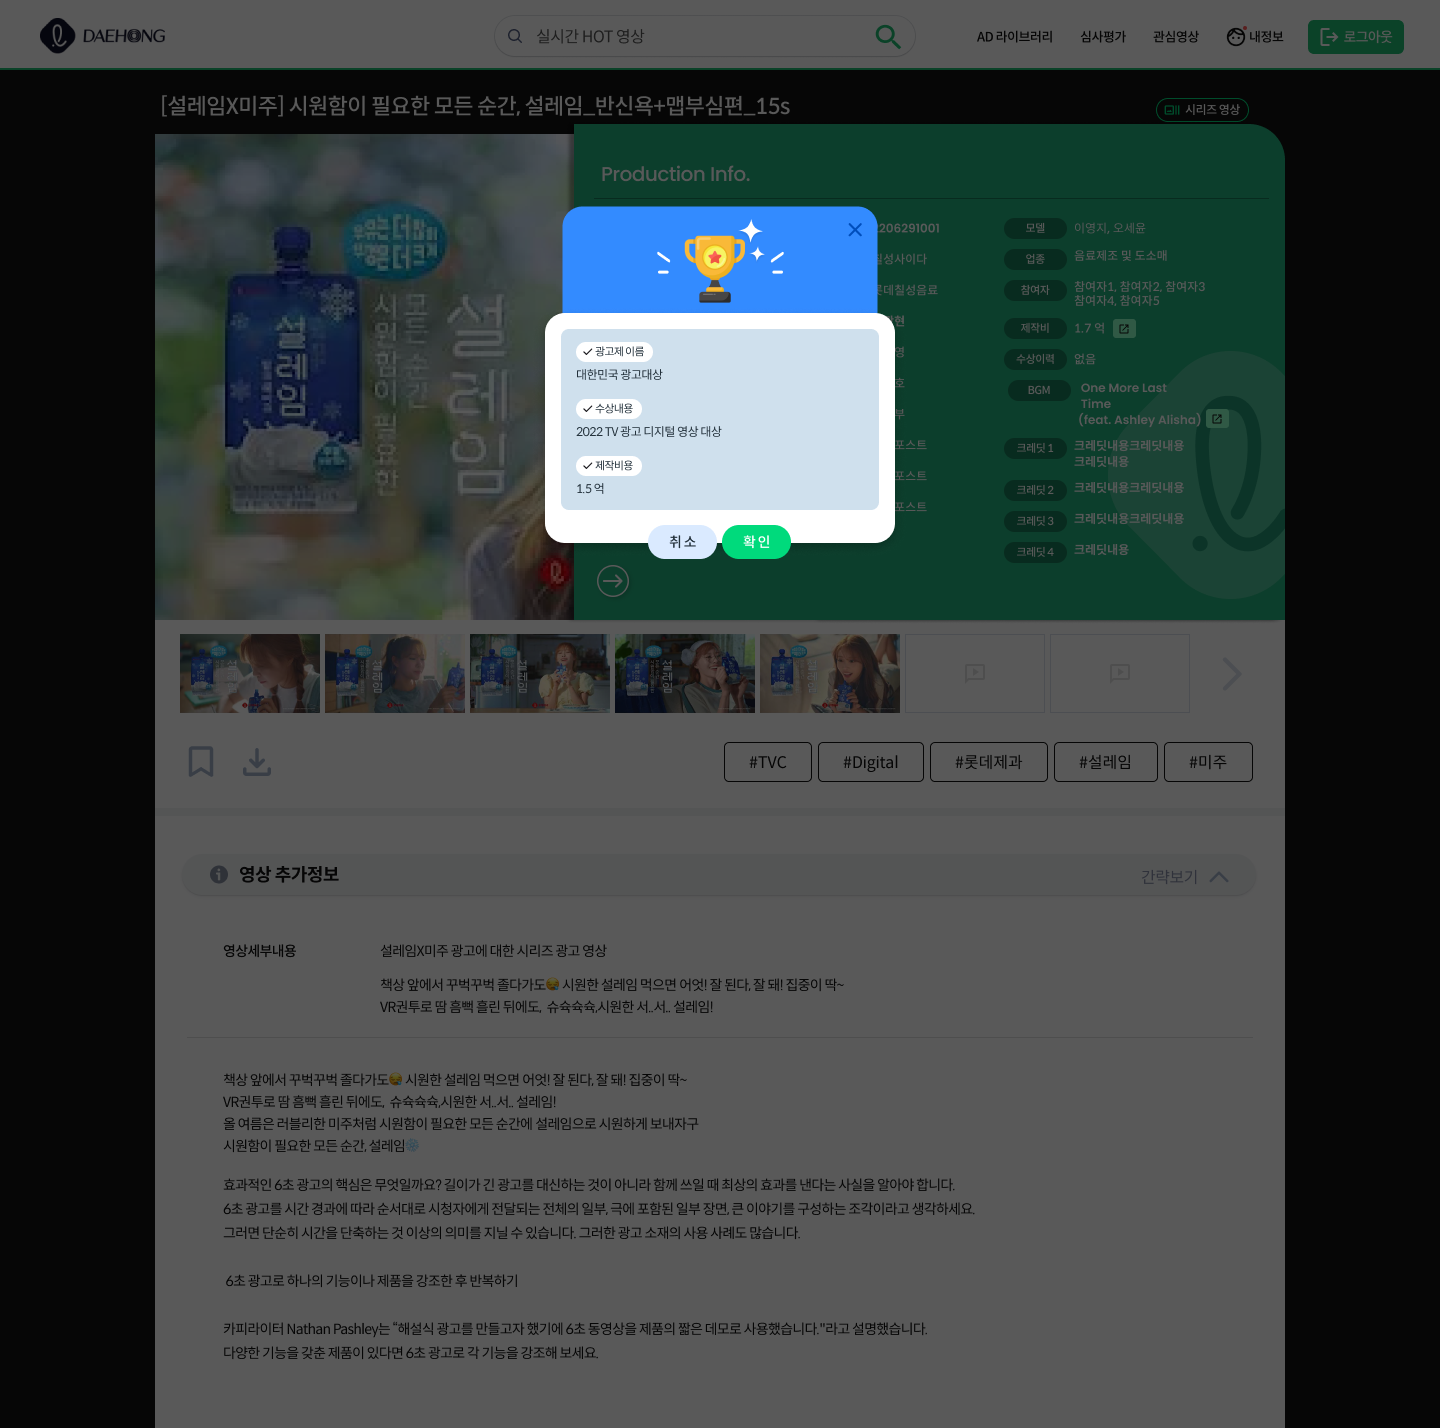
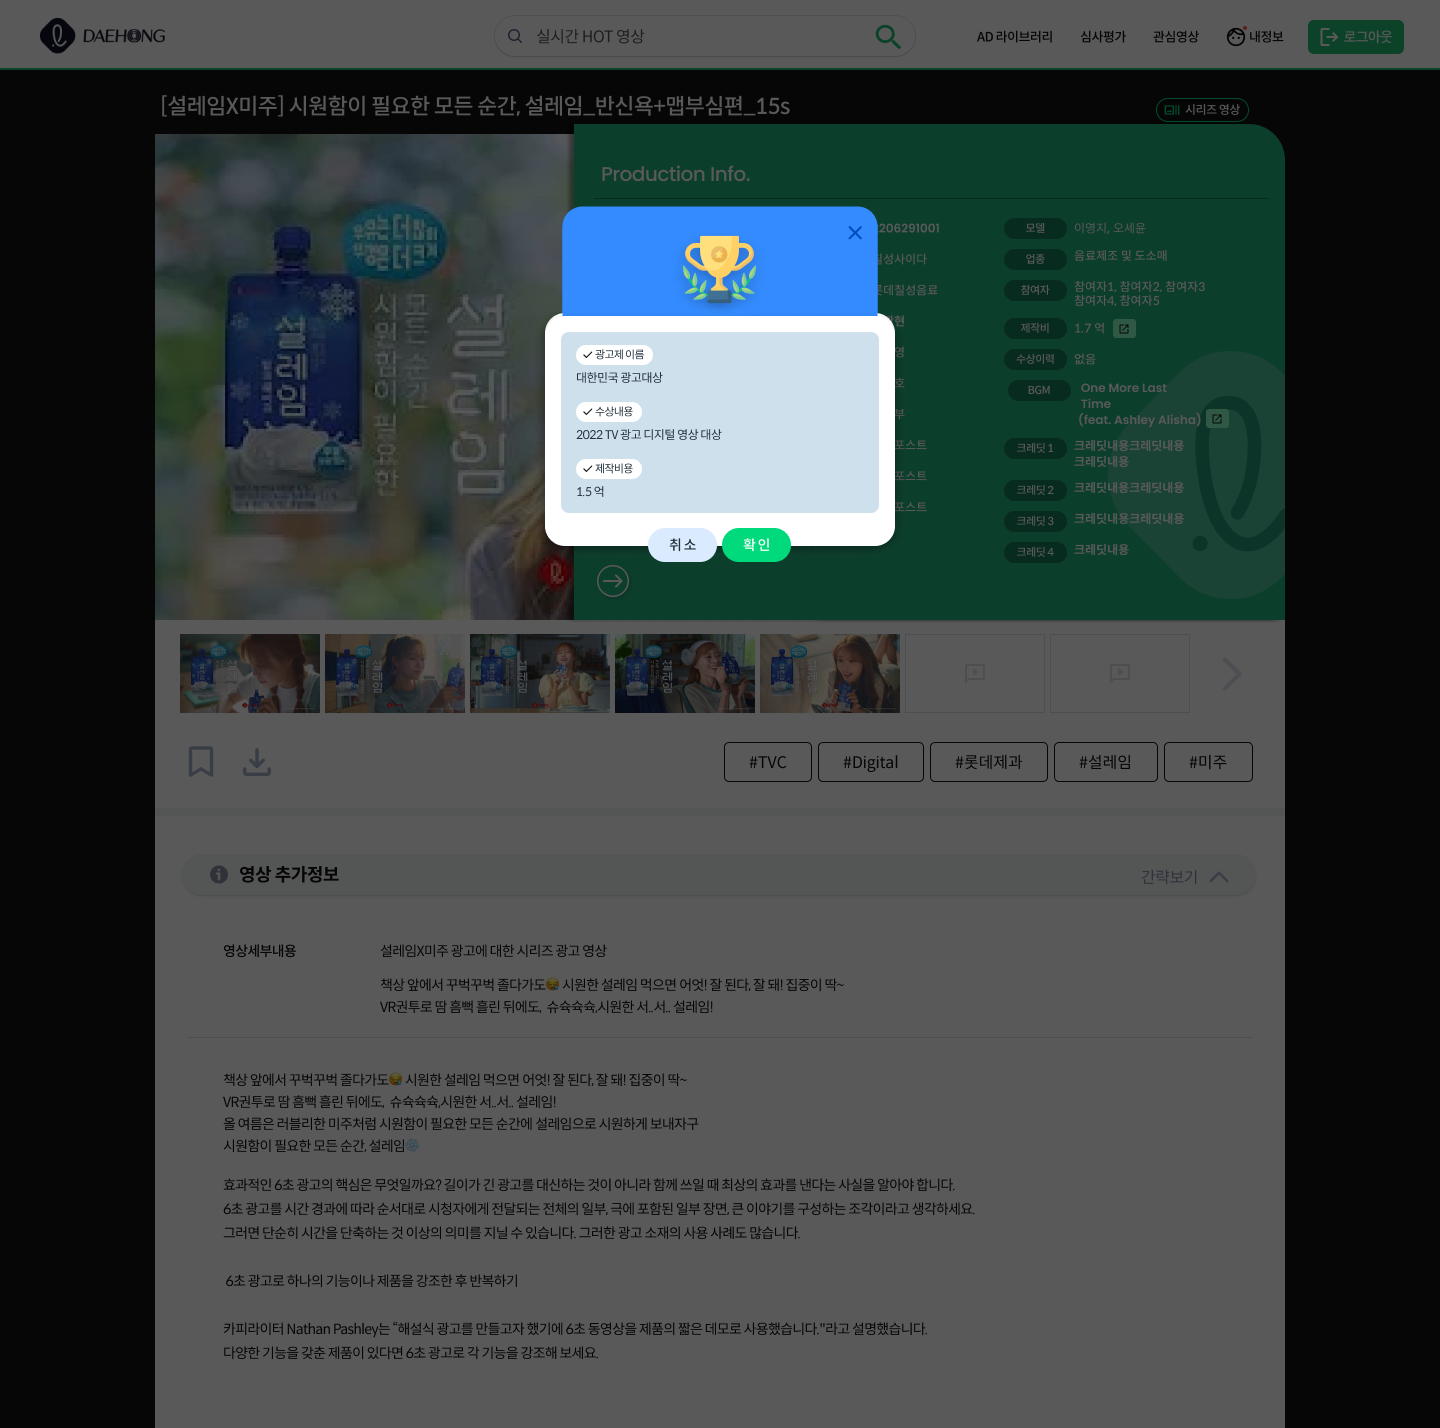
images commit

Changed region(s): [[0.4062, 0.1541, 0.5938, 0.3697], [0.4375, 0.3389, 0.5625, 0.4006]]

diff --git a/prototype/04_1.html b/prototype/04_1.html
@@ -17,7 +17,7 @@
   </style>
 </head>
 <body>
-  <img src="images/prize.gif" class="award" alt="">
+  <!-- <img src="images/prize.gif" class="award" alt=""> -->
   <a href="04_2.html" ><img src="images/Popup_1.png" alt=""></a>
 </body>
 </html>

diff --git a/prototype/04_2.html b/prototype/04_2.html
@@ -17,7 +17,7 @@
   </style>
 </head>
 <body>
-  <img src="images/prize.gif" class="award" alt="">
+  <!-- <img src="images/prize.gif" class="award" alt=""> -->
   <a href="04_3.html" ><img src="images/Popup_2.png" alt=""></a>
 </body>
 </html>

diff --git a/prototype/04_3.html b/prototype/04_3.html
@@ -17,7 +17,7 @@
   </style>
 </head>
 <body>
-  <img src="images/prize.gif" class="award" alt="">
+  <!-- <img src="images/prize.gif" class="award" alt=""> -->
   <a href="05.html" ><img src="images/Popup_3.png" alt=""></a>
 </body>
 </html>
